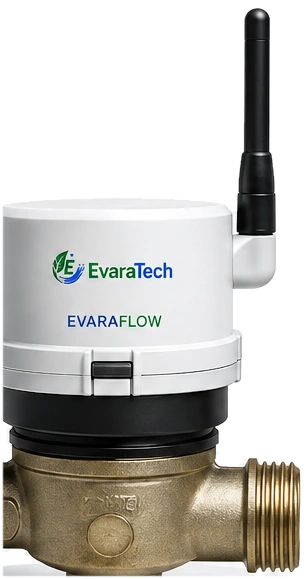
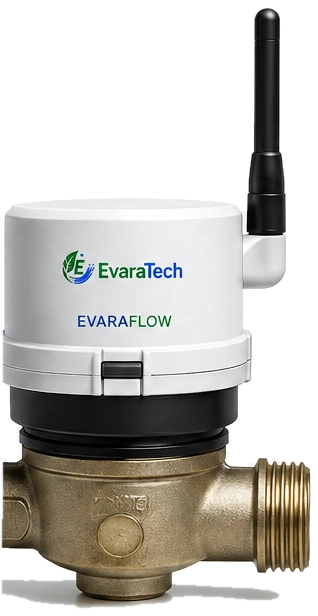
Complete the EvaraFlow render, drop raw field photos, close the ideology gap
- EvaraFlow: the brass body rests on the sheet's studio podium, so the
  podium cut used for the other devices sliced through the meter. The
  crop now extends past the podium and separates brass from podium by
  colour instead (podium and shadow are neutral greys, brass is warm)
- EvaraDeep: remove the "In the field" gallery of raw install photos
- Ideology: the section's own top padding and the gap between the
  vision statement and the mission block were both being multiplied by
  the new root scale; brought down from 143/180px to 83/125px at 1440

Changed region(s): [[0.0, 0.0, 0.9935, 1.0]]

diff --git a/src/components/sections/ideology.tsx b/src/components/sections/ideology.tsx
@@ -16,7 +16,7 @@ import { company } from "@/lib/evara-data";
  */
 export function Ideology() {
   return (
-    <Section tone="paper" id="ideology" className="overflow-hidden">
+    <Section tone="paper" id="ideology" className="overflow-hidden pt-8 sm:pt-10 lg:pt-12">
       {/* One soft pool of light under the statement */}
       <div
         aria-hidden="true"
@@ -40,7 +40,7 @@ export function Ideology() {
           initial="hidden"
           whileInView="show"
           viewport={revealViewport}
-          className="mt-16 grid grid-cols-1 gap-10 border-t border-evara-line pt-12 sm:mt-20 lg:grid-cols-[1fr_1.4fr] lg:gap-20 lg:pt-16"
+          className="mt-8 grid grid-cols-1 gap-8 border-t border-evara-line pt-8 sm:mt-10 lg:grid-cols-[1fr_1.4fr] lg:gap-20 lg:pt-10"
         >
           {/* Mission */}
           <motion.div variants={fadeUp}>

diff --git a/src/lib/evara-data.ts b/src/lib/evara-data.ts
@@ -448,10 +448,6 @@ export const products: Product[] = [
       { title: "Rugged & reliable", detail: "IP65 waterproof design for harsh environments." },
     ],
     image: "/images/products/evaradeep.webp",
-    gallery: [
-      "/images/deployments/borewell-install-1.jpg",
-      "/images/deployments/node-1.jpg",
-    ],
     hasSpecSheet: true,
     accent: "navy",
   },
